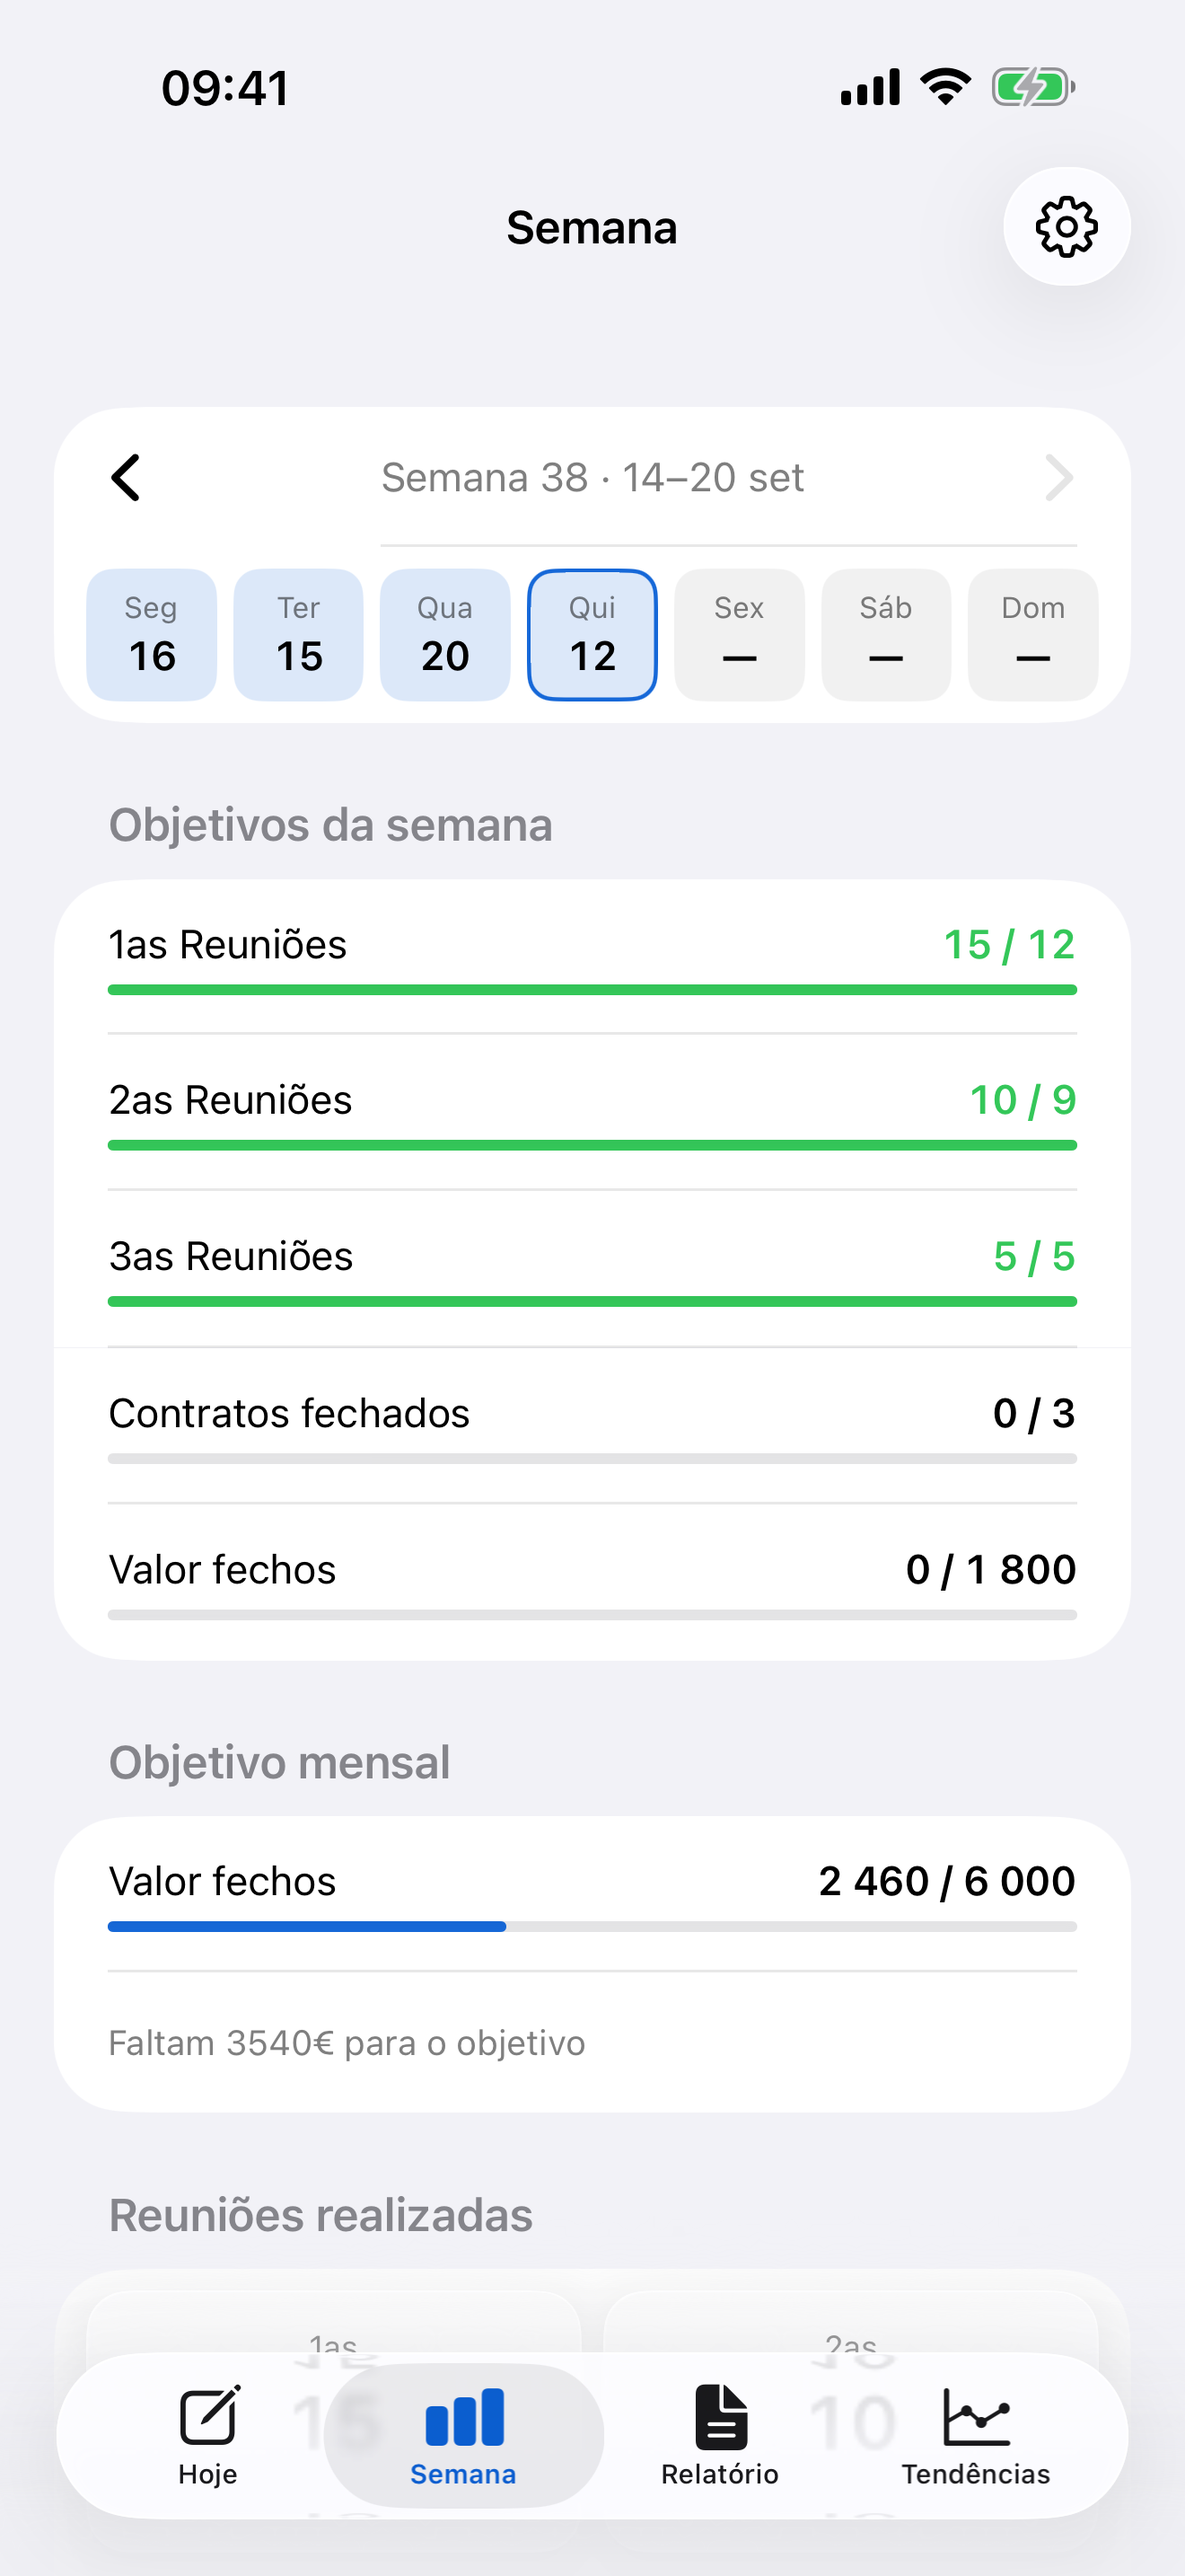
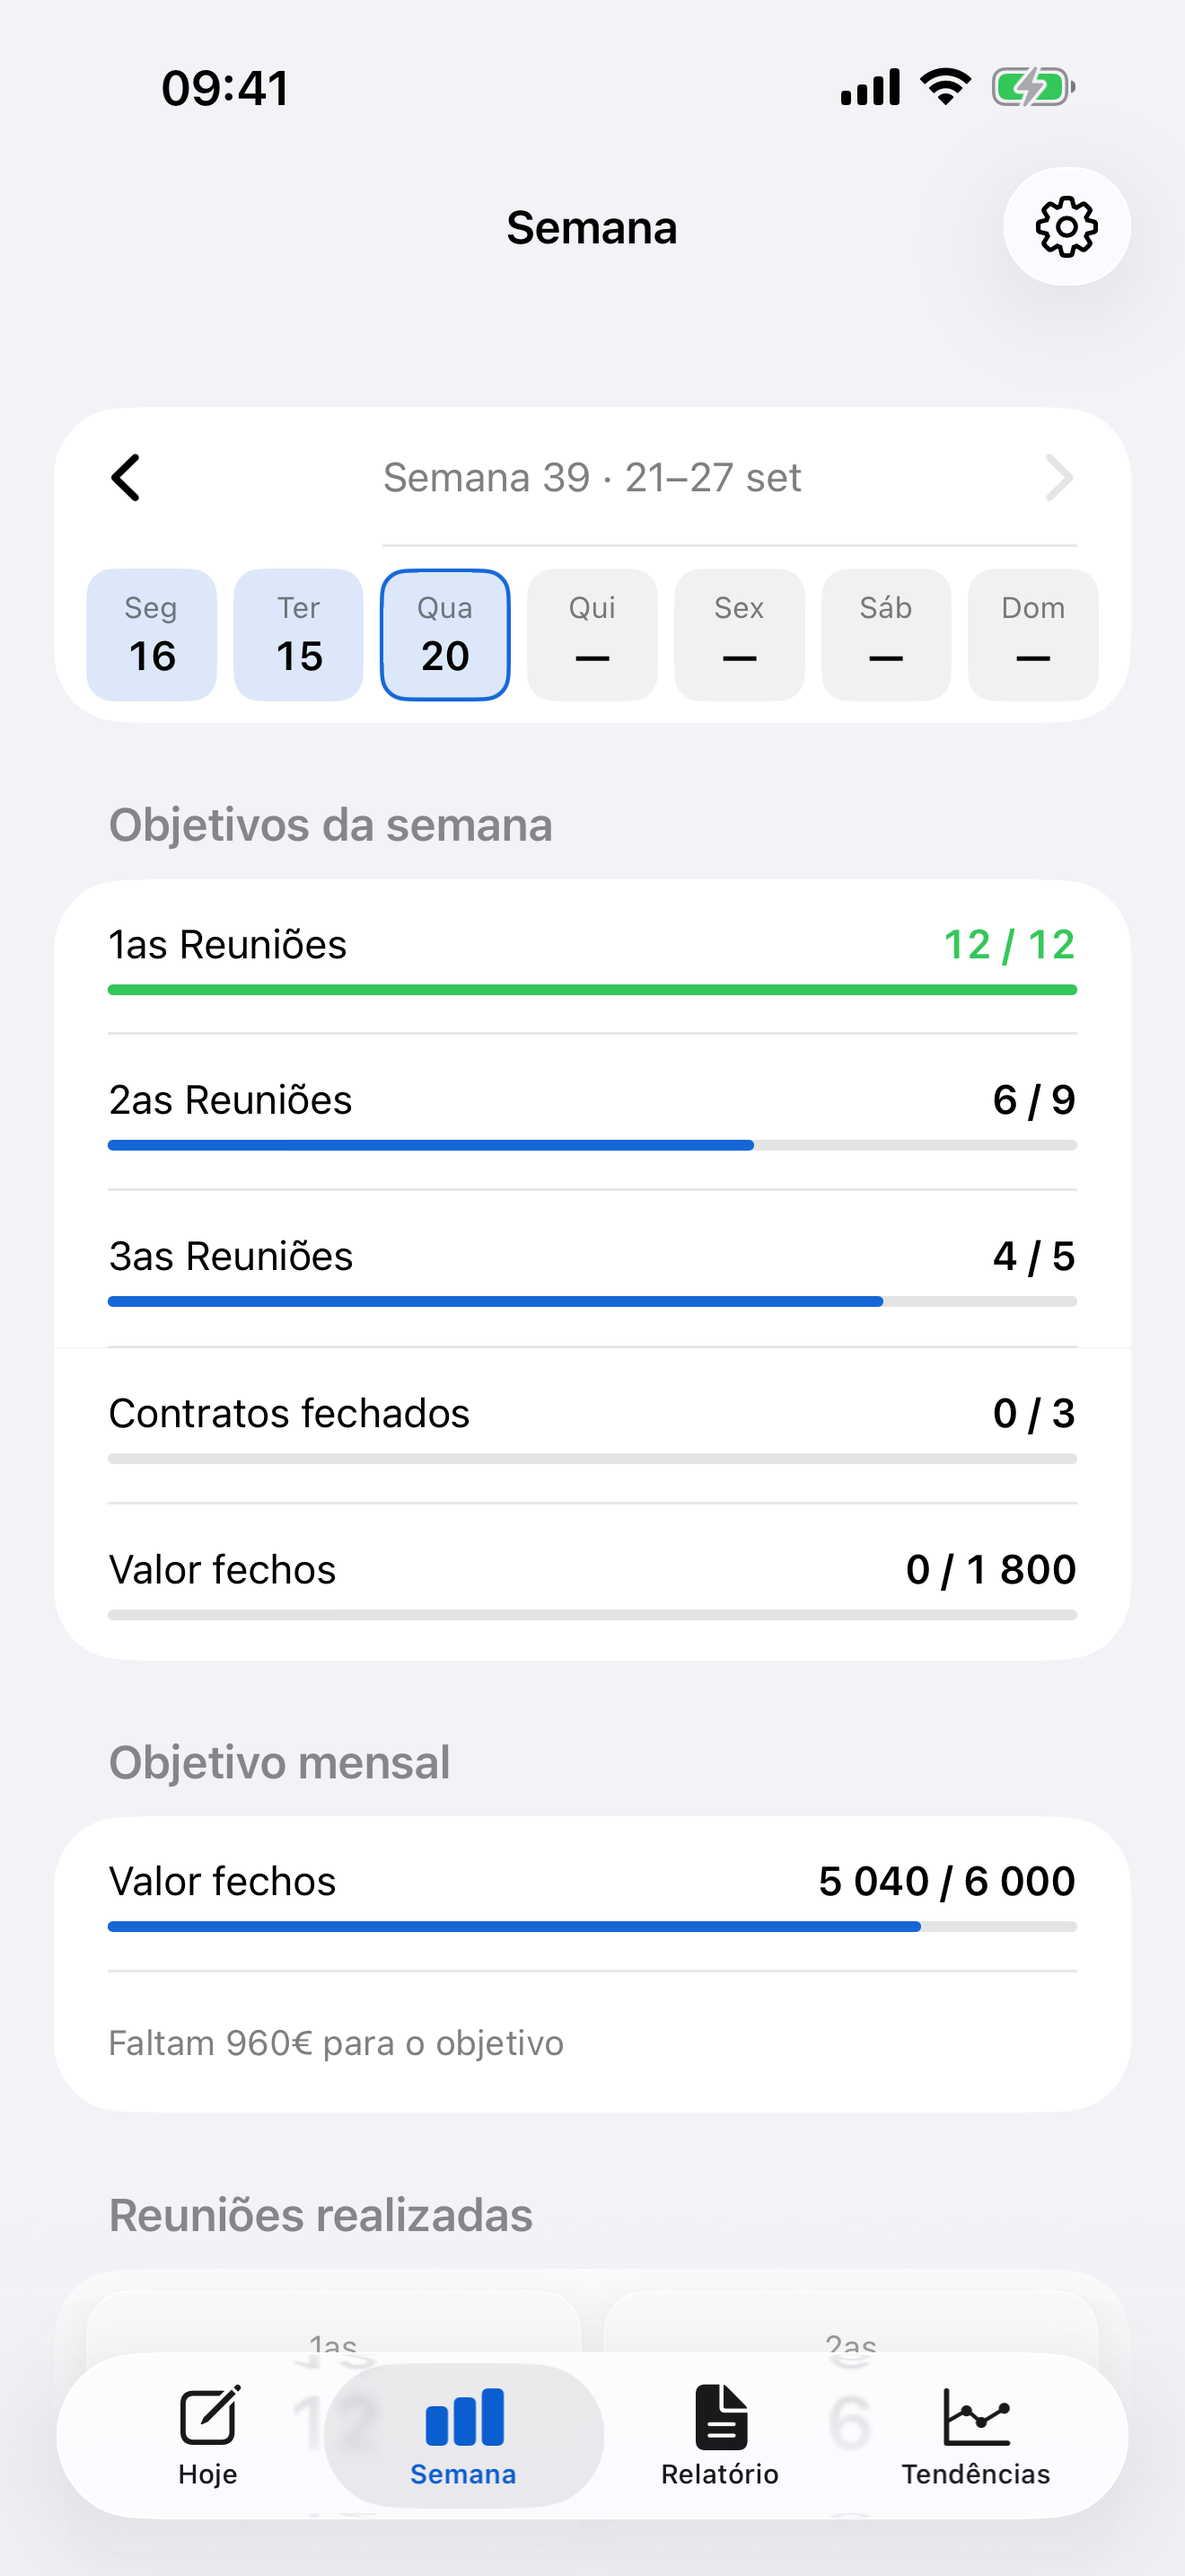
feat(ios): name the week navigation and shoot a closed week
VoiceOver announced the week arrows as "chevron.left" and
"chevron.right", which tells a blind user nothing about what the button
does. They now carry labels, and identifiers so tests can find them.

The report screenshot showed the current week, where contracts and value
are still zero because those are written at the end of the week. True in
daily use, but on a store page it reads as an app that does nothing. The
capture now steps back one week to a closed one.

Screenshots regenerated: they predated the currency field and the
reminders page in onboarding.

Claude-Session: https://claude.ai/code/session_01QPuhwco8A8xQ5BUri8xtZm

diff --git a/ios/SalesTrackerUITests/ScreenshotTests.swift b/ios/SalesTrackerUITests/ScreenshotTests.swift
@@ -28,6 +28,14 @@ final class ScreenshotTests: XCTestCase {
                 "Ecrã \(tab) não renderizou"
             )
 
+            // O relatório da semana em curso está meio vazio — os contratos e o valor só
+            // se escrevem no fim. Recua uma semana para a captura mostrar uma semana
+            // fechada, que é o que a secção serve para fazer.
+            if tab == "Relatório" {
+                let previous = app.buttons["week.previous"]
+                if previous.waitForExistence(timeout: 5) { previous.tap() }
+            }
+
             // Dá tempo aos gráficos de Tendências para desenharem antes do disparo.
             Thread.sleep(forTimeInterval: 1.5)
             capture(named: String(format: "%02d-%@", index + 2, slug(tab)))

diff --git a/ios/SalesTracker/Views/Components.swift b/ios/SalesTracker/Views/Components.swift
@@ -19,6 +19,9 @@ struct WeekNavigator: View {
                         .font(.title3.weight(.semibold))
                 }
                 .buttonStyle(.plain)
+                // Sem isto o VoiceOver anuncia só "chevron.left".
+                .accessibilityLabel("Semana anterior")
+                .accessibilityIdentifier("week.previous")
 
                 Spacer()
 
@@ -40,6 +43,8 @@ struct WeekNavigator: View {
                         .font(.title3.weight(.semibold))
                 }
                 .buttonStyle(.plain)
+                .accessibilityLabel("Semana seguinte")
+                .accessibilityIdentifier("week.next")
                 .disabled(isCurrentWeek)
                 .opacity(isCurrentWeek ? 0.2 : 1)
             }
